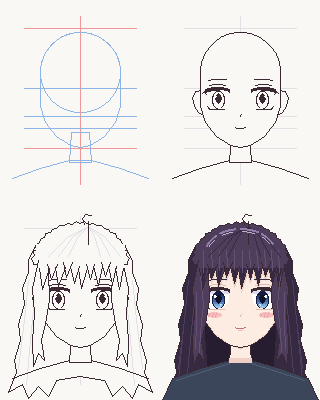
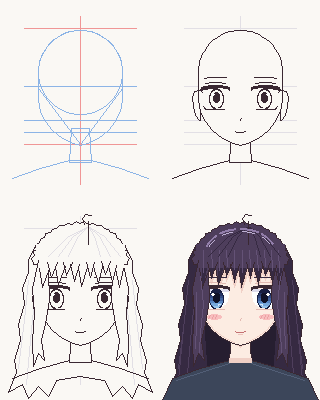
Face study: apply proportion rules (bigger eyes, lower nose/mouth, ears, chin lines)
Claude-Session: https://claude.ai/code/session_0155yoUibrhMAmrpcv8V9b9L

diff --git a/draw_face_study.py b/draw_face_study.py
@@ -39,10 +39,10 @@ CLOTH = (60, 70, 90)
 CLOTH_HI = (82, 94, 118)
 
 CX = 40
-TOP, CHIN = 14, 74
-EYE_Y = (TOP + CHIN) // 2
-NOSE_Y = 58
-MOUTH_Y = 64
+TOP, CHIN = 14, 72
+EYE_Y = (TOP + CHIN) // 2          # 43: half the head; eyes sit just below it
+NOSE_Y = 60                          # halfway between eye centre and chin
+MOUTH_Y = 66                         # halfway between nose and chin
 
 
 def arc(cx, cy, r, a0, a1, n=48):
@@ -54,11 +54,13 @@ def mirror(pts):
     return [(2 * CX - x, y) for x, y in pts]
 
 
-FACE = arc(CX, 36, 20, 180, 360) + [(60, 44), (60, 53), (57.5, 61), (52, 68), (45, 72.5),
-                                    (40, 73.5), (35, 72.5), (28, 68), (22.5, 61), (20, 53), (20, 44)]
-EAR_L = [(21, 45), (17.5, 45.5), (16, 49), (17, 53), (19, 56), (21, 57)]
+# bigger cranium; round cheeks tapering to a softly pointed chin
+FACE = arc(CX, 36, 21, 180, 360) + [(61, 44), (60.8, 50), (59.8, 55.5), (57.5, 60.5), (54, 65),
+                                    (49, 68.8), (43.5, 71.4), (40, 72.4), (36.5, 71.4), (31, 68.8),
+                                    (26, 65), (22.5, 60.5), (20.2, 55.5), (19.2, 50), (19, 44)]
+EAR_L = [(19.5, 45), (17, 45.5), (16, 48.5), (16.3, 53), (17.5, 57.5), (19.3, 60), (20, 60)]   # eye line to nose
 EAR_R = mirror(EAR_L)
-NECK = [(35.5, 66), (44.5, 66), (45.5, 81), (34.5, 81)]
+NECK = [(35.5, 64), (44.5, 64), (45.5, 81), (34.5, 81)]
 SHOULDERS = [(1, 100), (6, 89), (20, 84), (34.5, 80), (45.5, 80), (60, 84), (74, 89), (79, 100)]
 
 BACK_HAIR = [(18, 22), (14, 30), (14, 36), (11, 44), (12, 52), (9, 62), (10, 70), (7, 80),
@@ -99,7 +101,7 @@ class Pen:
 
 
 def clump(rl, rr, tx, ty):
-    ty -= 2.5          # let the tips rest just above the lashes
+    ty -= 3.5          # let the tips rest just above the lashes
     mid = (24 + ty) / 2
     return [(rl, 22), (rr, 22), (rr - 0.6, mid), (tx, ty), (rl + 0.6, mid)]
 
@@ -110,8 +112,8 @@ def eye(pen, cx, flip, color):
     X = lambda dx: round(pen.ox + (cx * K) + s * dx)
     Y = lambda dy: round(pen.oy + (EYE_Y + 1) * K + dy)
     d = pen.d
-    w = 11                                      # half-width in hi-res pixels
-    h_top, h_bot = 0, 18
+    w = 13                                      # half-width in hi-res pixels
+    h_top, h_bot = 0, 20
     # eye opening shape: flat-ish top, rounded bottom
     def inside(dx, dy):
         if dy < 1 or dy > h_bot:
@@ -119,7 +121,7 @@ def eye(pen, cx, flip, color):
         t = dy / h_bot
         half = w * math.sqrt(max(0.0, 1 - max(0.0, (t - 0.45) / 0.55) ** 2))
         return -w + (1 if dy < 3 else 0) <= dx <= half
-    icx, icy, irx, iry = 1, 9.5, 6.5, 9.5       # iris ellipse
+    icx, icy, irx, iry = 1, 10.5, 7.5, 10.5     # iris ellipse
     for dy in range(1, h_bot + 1):
         for dx in range(-w, w + 1):
             if not inside(dx, dy):
@@ -131,7 +133,7 @@ def eye(pen, cx, flip, color):
                     c = IRIS[min(int(dy / h_bot * len(IRIS)), len(IRIS) - 1)]
                     if ((dx - icx) / irx) ** 2 + ((dy - icy) / iry) ** 2 > 0.78:
                         c = IRIS[0]                             # dark rim
-                    if ((dx - icx) / 3.2) ** 2 + ((dy - 8) / 5) ** 2 <= 1:
+                    if ((dx - icx) / 3.6) ** 2 + ((dy - 9) / 5.5) ** 2 <= 1:
                         c = PUPIL
                     if dy <= 4:
                         c = IRIS[0]                             # lid shadow
@@ -139,15 +141,15 @@ def eye(pen, cx, flip, color):
                 c = BG
                 if in_iris and ((dx - icx) / irx) ** 2 + ((dy - icy) / iry) ** 2 > 0.72:
                     c = LINE
-                if ((dx - icx) / 3.2) ** 2 + ((dy - 8) / 5) ** 2 <= 1:
+                if ((dx - icx) / 3.6) ** 2 + ((dy - 9) / 5.5) ** 2 <= 1:
                     c = LINE
             d.point((X(dx), Y(dy)), fill=c)
     # highlights
     hl = WHITE
-    for dx, dy in ((-2, 5), (-3, 5), (-2, 6), (-3, 6), (-2, 7), (-3, 7), (-1, 6)):
+    for dx, dy in ((-2, 5), (-3, 5), (-2, 6), (-3, 6), (-2, 7), (-3, 7), (-1, 6), (-4, 6)):
         d.point((X(dx), Y(dy)), fill=hl)
     if color:
-        for dx, dy in ((3, 14), (4, 14), (3, 15)):
+        for dx, dy in ((3, 16), (4, 16), (3, 17), (5, 16)):
             d.point((X(dx), Y(dy)), fill=(210, 230, 250))
     # thick upper lash, arched, heaviest and flicked at the outer corner
     for dx in range(-w - 1, w + 2):
@@ -174,8 +176,8 @@ def eye(pen, cx, flip, color):
 
 
 def features(pen, color):
-    eye(pen, CX - 11.5, False, color)
-    eye(pen, CX + 11.5, True, color)
+    eye(pen, CX - 12.5, False, color)
+    eye(pen, CX + 12.5, True, color)
     nose = SKIN_SHADE2 if color else LINE
     pen.line([(CX + 0.5, NOSE_Y - 1), (CX, NOSE_Y)], fill=nose)
     m = LIP if color else LINE
@@ -187,7 +189,8 @@ def features(pen, color):
 def guides(pen, faint):
     red = GUIDE_FAINT if faint else GUIDE_RED
     blue = GUIDE_FAINT if faint else GUIDE_BLUE
-    pen.ellipse((20, 16, 60, 56), outline=blue)
+    pen.ellipse((19, 15, 61, 57), outline=blue)
+    pen.line([(19, 44), (CX, CHIN), (61, 44)], fill=blue)   # two lines meeting at the chin
     pen.line([(CX, 8), (CX, 92)], fill=red)
     for y in (EYE_Y, NOSE_Y, MOUTH_Y):
         pen.line([(12, y), (68, y)], fill=blue)
@@ -273,14 +276,14 @@ def panel(img, ox, oy, step):
         pen.line(SHOULDERS[1:-1], fill=LINE)
     pen.poly(NECK, fill=SKIN if color else BG, outline=LINE)
     if color:
-        pen.poly([(35.5, 66), (44.5, 66), (44.8, 72), (40, 74.5), (35.2, 72)], fill=SKIN_SHADE)
+        pen.poly([(35.5, 64), (44.5, 64), (44.8, 70), (40, 73.5), (35.2, 70)], fill=SKIN_SHADE)
         pen.poly([(34.5, 79), (45.5, 79), (45.5, 81), (34.5, 81)], fill=SKIN_SHADE)
     skin = SKIN if color else BG
     pen.poly(EAR_L, fill=skin, outline=LINE)
     pen.poly(EAR_R, fill=skin, outline=LINE)
     if color:
-        pen.line([(18.5, 48), (18, 52)], fill=SKIN_SHADE2)
-        pen.line(mirror([(18.5, 48), (18, 52)]), fill=SKIN_SHADE2)
+        pen.line([(17.8, 48), (17.6, 54)], fill=SKIN_SHADE2)
+        pen.line(mirror([(17.8, 48), (17.6, 54)]), fill=SKIN_SHADE2)
     pen.poly(FACE, fill=skin, outline=LINE)
     if color:
         for c in BANGS:  # bangs cast a soft shadow on the forehead
@@ -288,12 +291,12 @@ def panel(img, ox, oy, step):
             pen.poly([(rl, 23), (rr, 23), (rr - 0.6, (26 + ty) / 2 + 0.5), (tx, ty - 0.5), (rl + 0.6, (26 + ty) / 2 + 0.5)],
                      fill=SKIN_SHADE)
         # soft cheek shade along the jaw and blush
-        pen.line([(22.5, 60), (27, 66.5), (33, 70.8)], fill=SKIN_SHADE)
-        pen.line(mirror([(22.5, 60), (27, 66.5), (33, 70.8)]), fill=SKIN_SHADE)
+        pen.line([(23, 60), (27, 64.8), (32, 68.6), (37, 71)], fill=SKIN_SHADE)
+        pen.line(mirror([(23, 60), (27, 64.8), (32, 68.6), (37, 71)]), fill=SKIN_SHADE)
         for x in (CX - 13, CX + 13):
-            pen.ellipse((x - 3.5, 56, x + 3.5, 58.5), fill=BLUSH)
+            pen.ellipse((x - 3.5, 57, x + 3.5, 59.5), fill=BLUSH)
             for k in range(3):
-                pen.line([(x - 2 + k * 1.6, 56.6), (x - 2.8 + k * 1.6, 57.8)], fill=(236, 160, 164))
+                pen.line([(x - 2 + k * 1.6, 57.6), (x - 2.8 + k * 1.6, 58.8)], fill=(236, 160, 164))
     features(pen, color)
     if step >= 3:
         hair_front(pen, step)
@@ -312,7 +315,7 @@ def main():
     d = ImageDraw.Draw(out)
     d.text((24, 22), "Anime face construction - pixel study", fill=LINE, font=ImageFont.load_default(size=36))
     small = ImageFont.load_default(size=26)
-    labels = ["1  Guides: circle, jaw, eye line at 1/2",
+    labels = ["1  Guides: circle, chin lines, eye line",
               "2  Features: eyes, nose, mouth, ears",
               "3  Hair: crown, bangs, side locks",
               "4  Color + shading"]
